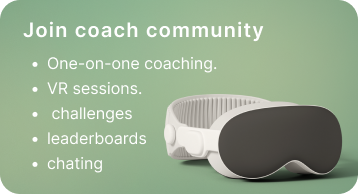
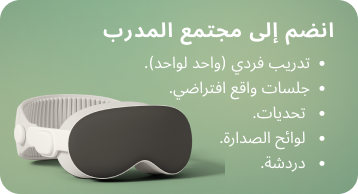
modify

diff --git a/lib/progress.dart b/lib/progress.dart
@@ -20,12 +20,20 @@ class _ProgressPageState extends State<ProgressPage>
   late Future<ProgressData> progressFuture;
 
   List<Map<String, dynamic>> weekEmotions = [
-    {"day": "Mon", "date": "17", "emotion": "assets/images/very_anxious.png"},
-    {"day": "Tue", "date": "18", "emotion": "assets/images/anxious.png"},
-    {"day": "Wed", "date": "19", "emotion": "assets/images/tense.png"},
-    {"day": "Thu", "date": "20", "emotion": "assets/images/neutral.png"},
-    {"day": "Fri", "date": "21", "emotion": "assets/images/slightly_calm.png"},
-    {"day": "Sat", "date": "22", "emotion": "assets/images/calm.png"},
+    {
+      "day": "الاثنين",
+      "date": "17",
+      "emotion": "assets/images/very_anxious.png"
+    },
+    {"day": "الثلاثاء", "date": "18", "emotion": "assets/images/anxious.png"},
+    {"day": "الأربعاء", "date": "19", "emotion": "assets/images/tense.png"},
+    {"day": "الخميس", "date": "20", "emotion": "assets/images/neutral.png"},
+    {
+      "day": "الجمعة",
+      "date": "21",
+      "emotion": "assets/images/slightly_calm.png"
+    },
+    {"day": "السبت", "date": "22", "emotion": "assets/images/calm.png"},
   ];
 
   late AnimationController _animationController;
@@ -120,13 +128,13 @@ class _ProgressPageState extends State<ProgressPage>
                 series: <CartesianSeries>[
                   SplineAreaSeries<ChartData, String>(
                     dataSource: [
-                      ChartData('4 April', 3),
-                      ChartData('5 April', 2),
-                      ChartData('6 April', 2.5),
-                      ChartData('7 April', 4),
-                      ChartData('8 April', 3),
-                      ChartData('9 April', 3.5),
-                      ChartData('Today', 4.5),
+                      ChartData('٤ أبريل', 3),
+                      ChartData('٥ أبريل', 2),
+                      ChartData('٦ أبريل', 2.5),
+                      ChartData('٧ أبريل', 4),
+                      ChartData('٨ أبريل', 3),
+                      ChartData('٩ أبريل', 3.5),
+                      ChartData('اليوم', 4.5),
                     ],
                     xValueMapper: (ChartData data, _) => data.x,
                     yValueMapper: (ChartData data, _) => data.y,
@@ -158,8 +166,8 @@ class _ProgressPageState extends State<ProgressPage>
               child: ListView.separated(
                 scrollDirection: Axis.horizontal,
                 itemCount: weekEmotions.length,
-                separatorBuilder:
-                    (context, index) => SizedBox(width: padding * 0.6),
+                separatorBuilder: (context, index) =>
+                    SizedBox(width: padding * 0.6),
                 itemBuilder: (context, index) {
                   bool isSelected = index == 1; // simulate "today"
                   return Column(
@@ -174,10 +182,9 @@ class _ProgressPageState extends State<ProgressPage>
                           color: isSelected ? kPrimaryColor : Colors.white,
                           borderRadius: BorderRadius.circular(20),
                           border: Border.all(
-                            color:
-                                isSelected
-                                    ? kPrimaryColor
-                                    : Colors.grey.shade300,
+                            color: isSelected
+                                ? kPrimaryColor
+                                : Colors.grey.shade300,
                           ),
                         ),
                         child: Column(

diff --git a/lib/community/coachCommunity/book-vr.dart b/lib/community/coachCommunity/book-vr.dart
@@ -11,7 +11,7 @@ import 'package:calmleticsarab/widgets/custom_button.dart';
 class BookVRSessionPage extends StatefulWidget {
   final int sessionId;
 
-  const BookVRSessionPage({super.key, required this.sessionId});
+  const BookVRSessionPage({super.key,required this.sessionId});
 
   @override
   _BookVRSessionPageState createState() => _BookVRSessionPageState();
@@ -22,13 +22,13 @@ class _BookVRSessionPageState extends State<BookVRSessionPage> {
   DateTime? _selectedDay;
   int? selectedTimeSlotIndex;
 
-  final List<String> timeSlots = [
-    "10:00 AM - 11:00 AM",
-    "11:00 AM - 12:00 PM",
-    "12:00 PM - 1:00 PM",
-    "1:00 PM - 2:00 PM",
-    "2:00 PM - 3:00 PM",
-  ];
+final List<String> timeSlots = [
+  "١٠:٠٠ ص - ١١:٠٠ ص",
+  "١١:٠٠ ص - ١٢:٠٠ م",
+  "١٢:٠٠ م - ١:٠٠ م",
+  "١:٠٠ م - ٢:٠٠ م",
+  "٢:٠٠ م - ٣:٠٠ م",
+];
 
   Future<void> bookSession() async {
     if (_selectedDay == null || selectedTimeSlotIndex == null) {
@@ -121,6 +121,7 @@ class _BookVRSessionPageState extends State<BookVRSessionPage> {
             const SizedBox(height: 10),
 
             TableCalendar(
+               locale: 'ar',
               focusedDay: _focusedDay,
               firstDay: DateTime.now(),
               lastDay: DateTime(2100, 12, 31),
@@ -172,7 +173,7 @@ class _BookVRSessionPageState extends State<BookVRSessionPage> {
                       ),
                       child: Text(
                         timeSlots[index],
-                        style: const TextStyle(fontSize: 16),
+                        style: const TextStyle(fontSize: 20),
                       ),
                     ),
                   );

diff --git a/lib/community/coachCommunity/coach_community.dart b/lib/community/coachCommunity/coach_community.dart
@@ -68,7 +68,7 @@ class coachCommunityState extends State<coachCommunity> {
                       const Row(
                         children: [
                           Text(
-                            "240",
+                            "0",
                             style: TextStyle(
                               fontSize: 20,
                               fontWeight: FontWeight.bold,
@@ -167,17 +167,8 @@ class coachCommunityState extends State<coachCommunity> {
                   fontSize: 16,
                 ),
               ),
-              const SizedBox(height: 20),
-              buildOptionCard(
-                "Step Into Virtual Reality for Peak\nPerformance!",
-                () {
-                  /*  Navigator.push(
-                  context,
-                  MaterialPageRoute(builder: (context) => const BookVRSessionPage()),
-                );*/
-                },
-              ),
-              const SizedBox(height: 20),
+
+        /*      const SizedBox(height: 20),
               const Text(
                 "إليك دائرة دعمك",
                 style: TextStyle(
@@ -200,7 +191,7 @@ class coachCommunityState extends State<coachCommunity> {
                     );
                   }),
                 ),
-              ),
+              ),*/
             ],
           ),
         ),

diff --git a/lib/main.dart b/lib/main.dart
@@ -1,3 +1,5 @@
+import 'package:calmleticsarab/community/freeCommunity/free_community.dart';
+import 'package:calmleticsarab/progress.dart';
 import 'package:flutter/material.dart';
 import 'package:flutter_localizations/flutter_localizations.dart';
 import 'package:calmleticsarab/views/main_screen.dart';
@@ -31,7 +33,7 @@ class MyApp extends StatelessWidget {
         return Directionality(textDirection: TextDirection.rtl, child: child!);
       },
 
-      home: const MainScreen(),
+      home: const ProgressPage(),
     );
   }
 }

diff --git a/lib/community/freeCommunity/free_community.dart b/lib/community/freeCommunity/free_community.dart
@@ -49,7 +49,7 @@ class freeCommunityState extends State<freeCommunity> {
           child: Column(
             crossAxisAlignment: CrossAxisAlignment.start,
             children: [
-              SizedBox(height: padding * 2), // 30 -> نسبي
+              SizedBox(height: padding * 3), // 30 -> نسبي
               // Profile & Points Section
               Row(
                 children: [
